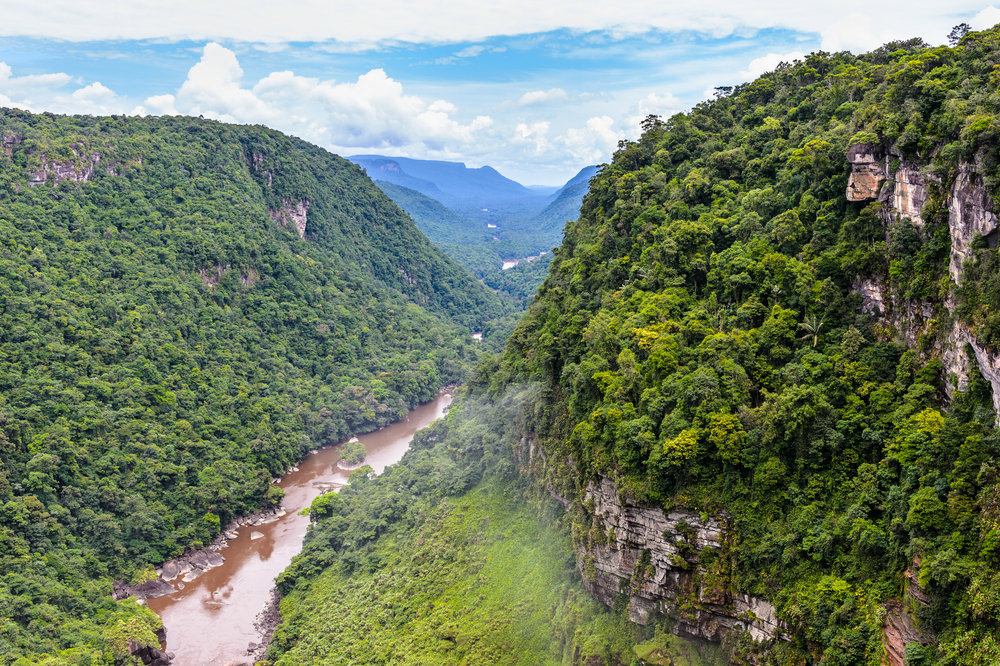
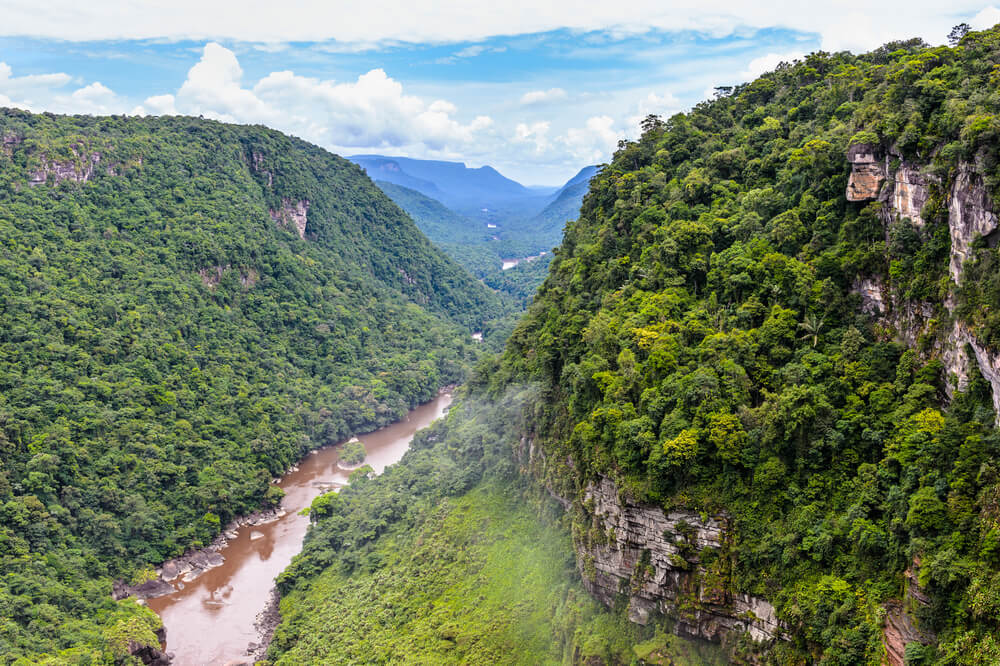
compress images

diff --git a/public/index.html b/public/index.html
@@ -8,29 +8,20 @@
   <meta name="theme-color" content="#000000" />
   <meta name="description" content="Reynold Burrowes: A Portfolio Website" />
   <meta name="author" content="Tonya Fletcher">
-  <meta name="keywords" content="books, author, manuscript, read, Guyana, Portfolio, Website, Profile, Resume, Editor, Writer, Publisher, Interactive">
+  <meta name="keywords" content="Books, Author, Manuscript, Reading, Guyana, Portfolio, Website, Profile, Resume, Editor, Writer, Publisher, Interactive">
   <link rel="apple-touch-icon" href="%PUBLIC_URL%/logo192.png" />
-
-  <!-- <link rel="stylesheet" href="src\index.css" /> -->
-
   <link rel="stylesheet" href="https://cdn.jsdelivr.net/npm/bootstrap@4.1.3/dist/css/bootstrap.min.css"
     integrity="sha384-MCw98/SFnGE8fJT3GXwEOngsV7Zt27NXFoaoApmYm81iuXoPkFOJwJ8ERdknLPMO" crossorigin="anonymous">
-
   <script src="https://code.jquery.com/jquery-3.3.1.slim.min.js"
     integrity="sha384-q8i/X+965DzO0rT7abK41JStQIAqVgRVzpbzo5smXKp4YfRvH+8abtTE1Pi6jizo"
     crossorigin="anonymous"></script>
-
   <script src="https://cdn.jsdelivr.net/npm/popper.js@1.14.3/dist/umd/popper.min.js"
     integrity="sha384-ZMP7rVo3mIykV+2+9J3UJ46jBk0WLaUAdn689aCwoqbBJiSnjAK/l8WvCWPIPm49"
     crossorigin="anonymous"></script>
-
   <script src="https://cdn.jsdelivr.net/npm/bootstrap@4.1.3/dist/js/bootstrap.min.js"
     integrity="sha384-ChfqqxuZUCnJSK3+MXmPNIyE6ZbWh2IMqE241rYiqJxyMiZ6OW/JmZQ5stwEULTy"
     crossorigin="anonymous"></script>
-
   <script src="https://kit.fontawesome.com/9b271ff51f.js" crossorigin="anonymous"></script>
-
-
   <link rel="manifest" href="%PUBLIC_URL%/manifest.json" />
 
   <title>Reynold Burrowes</title>
